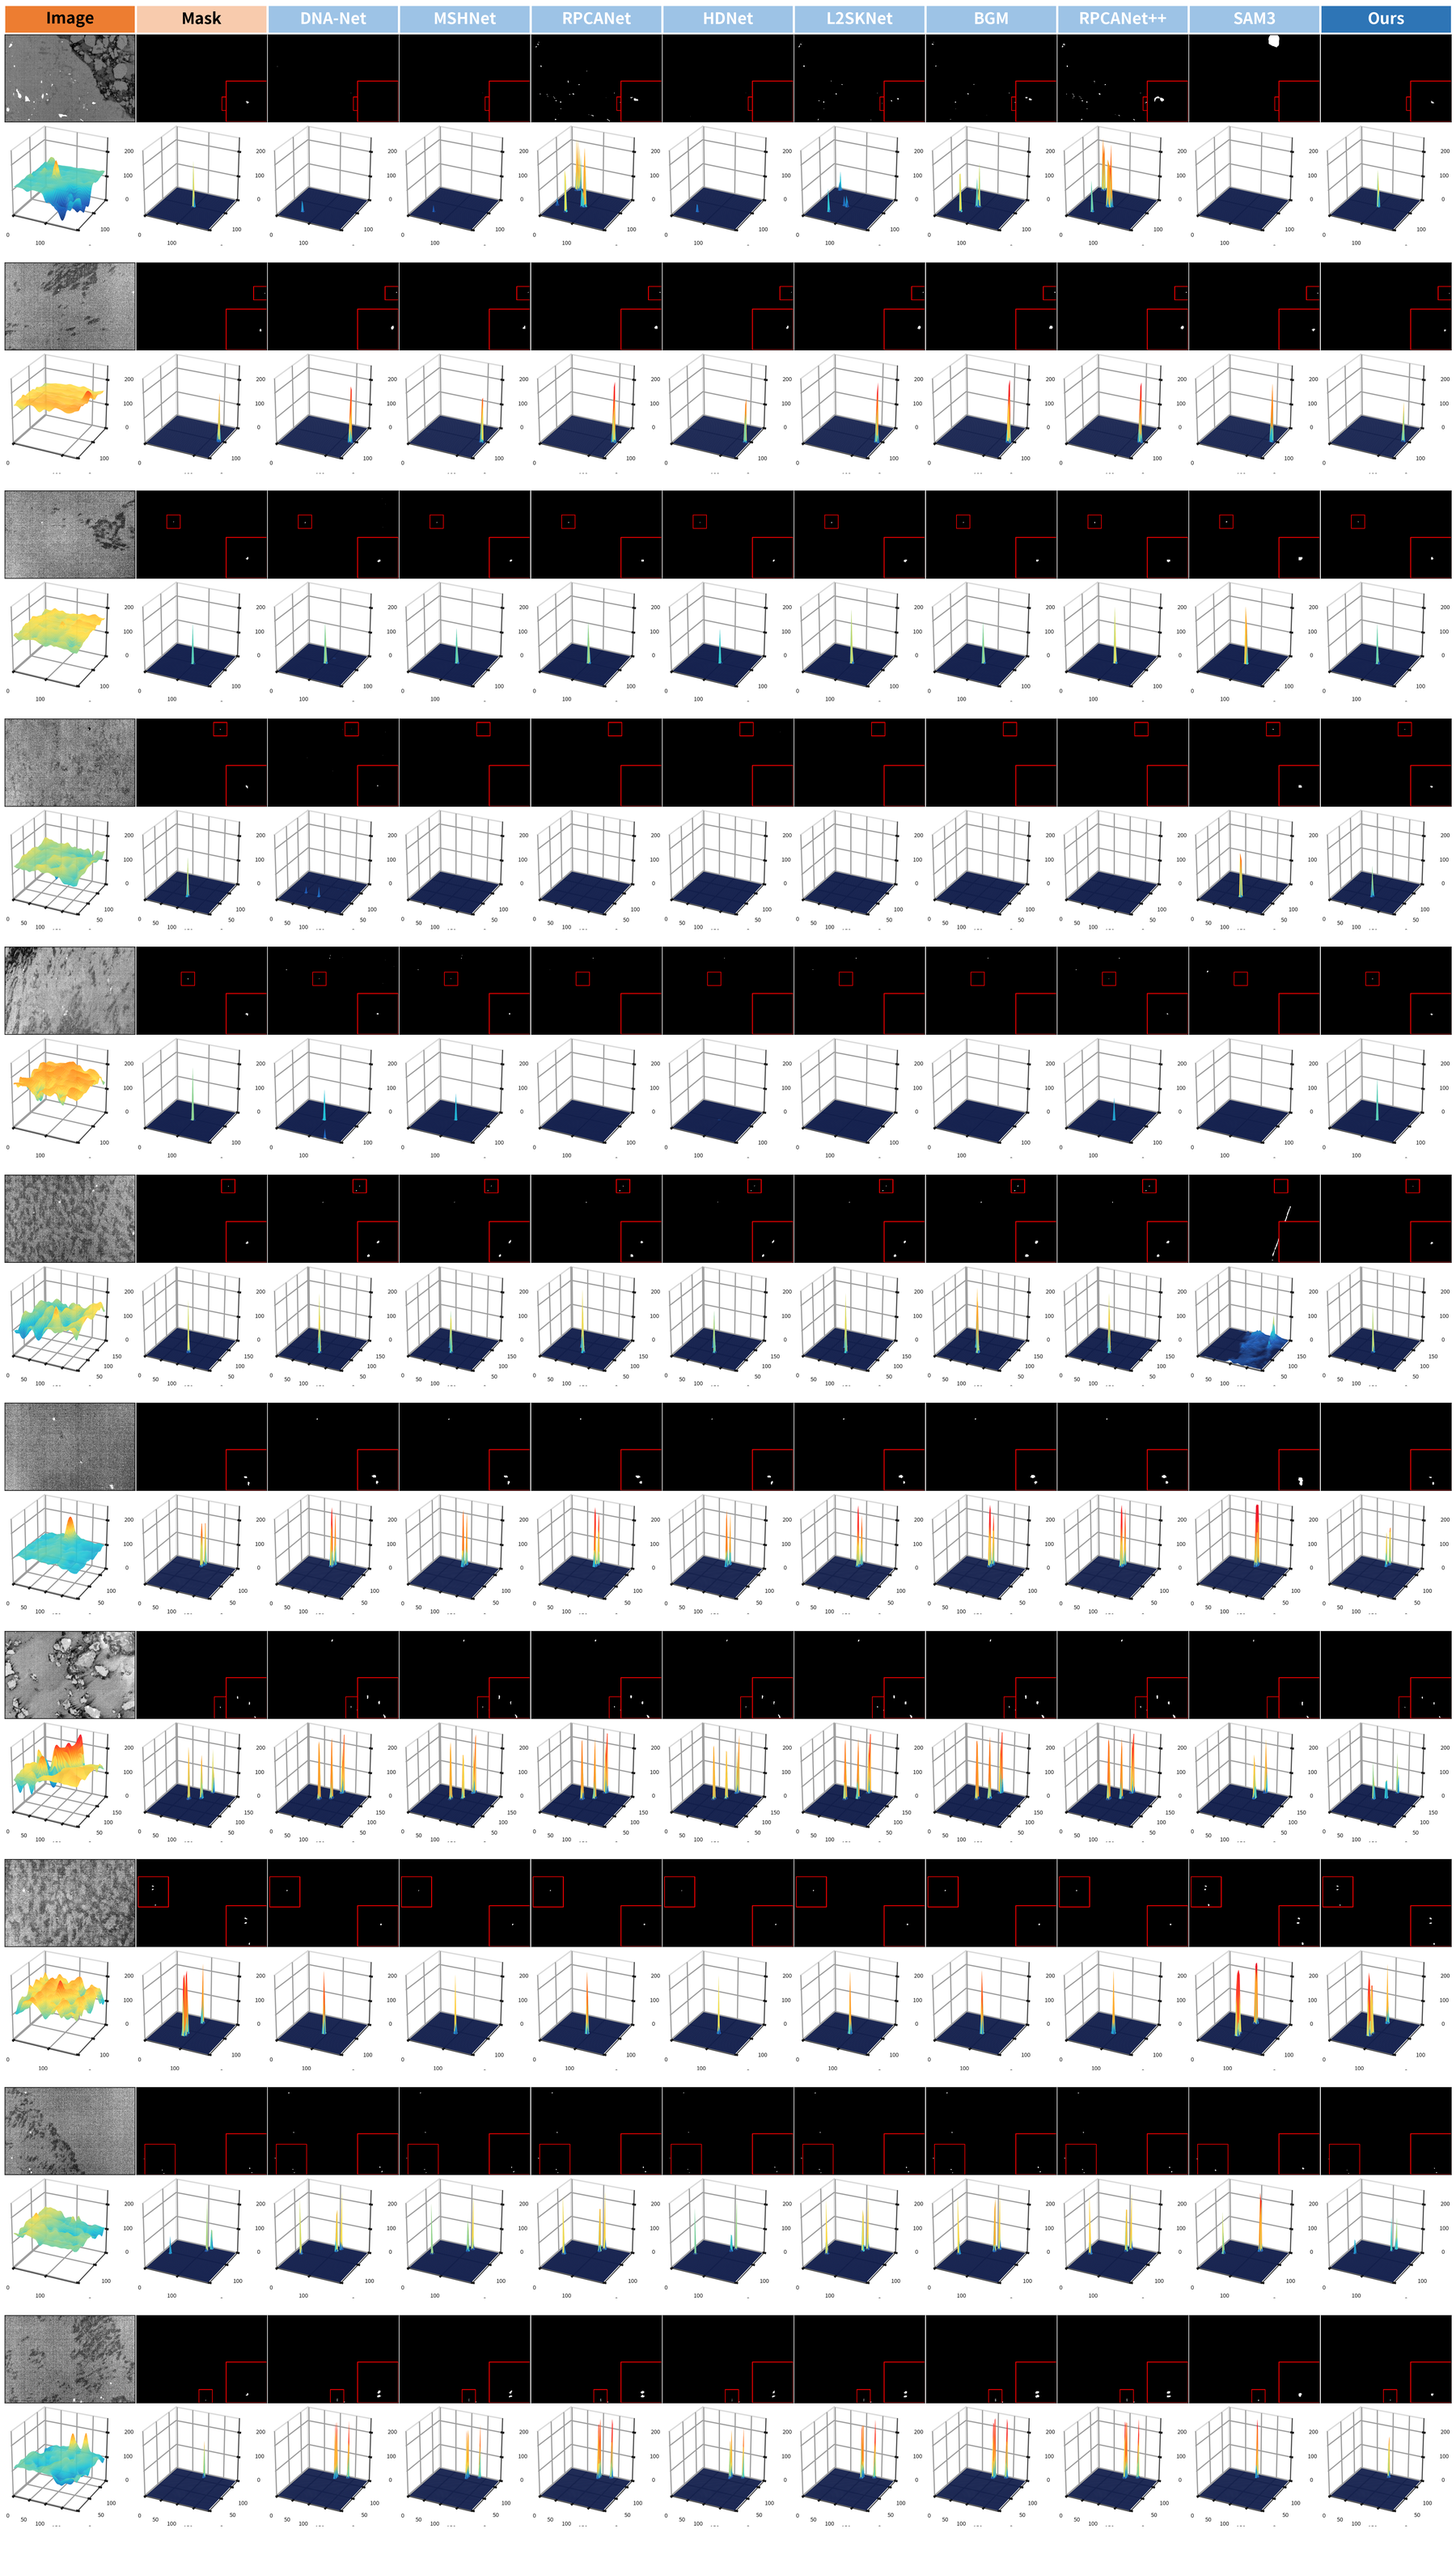
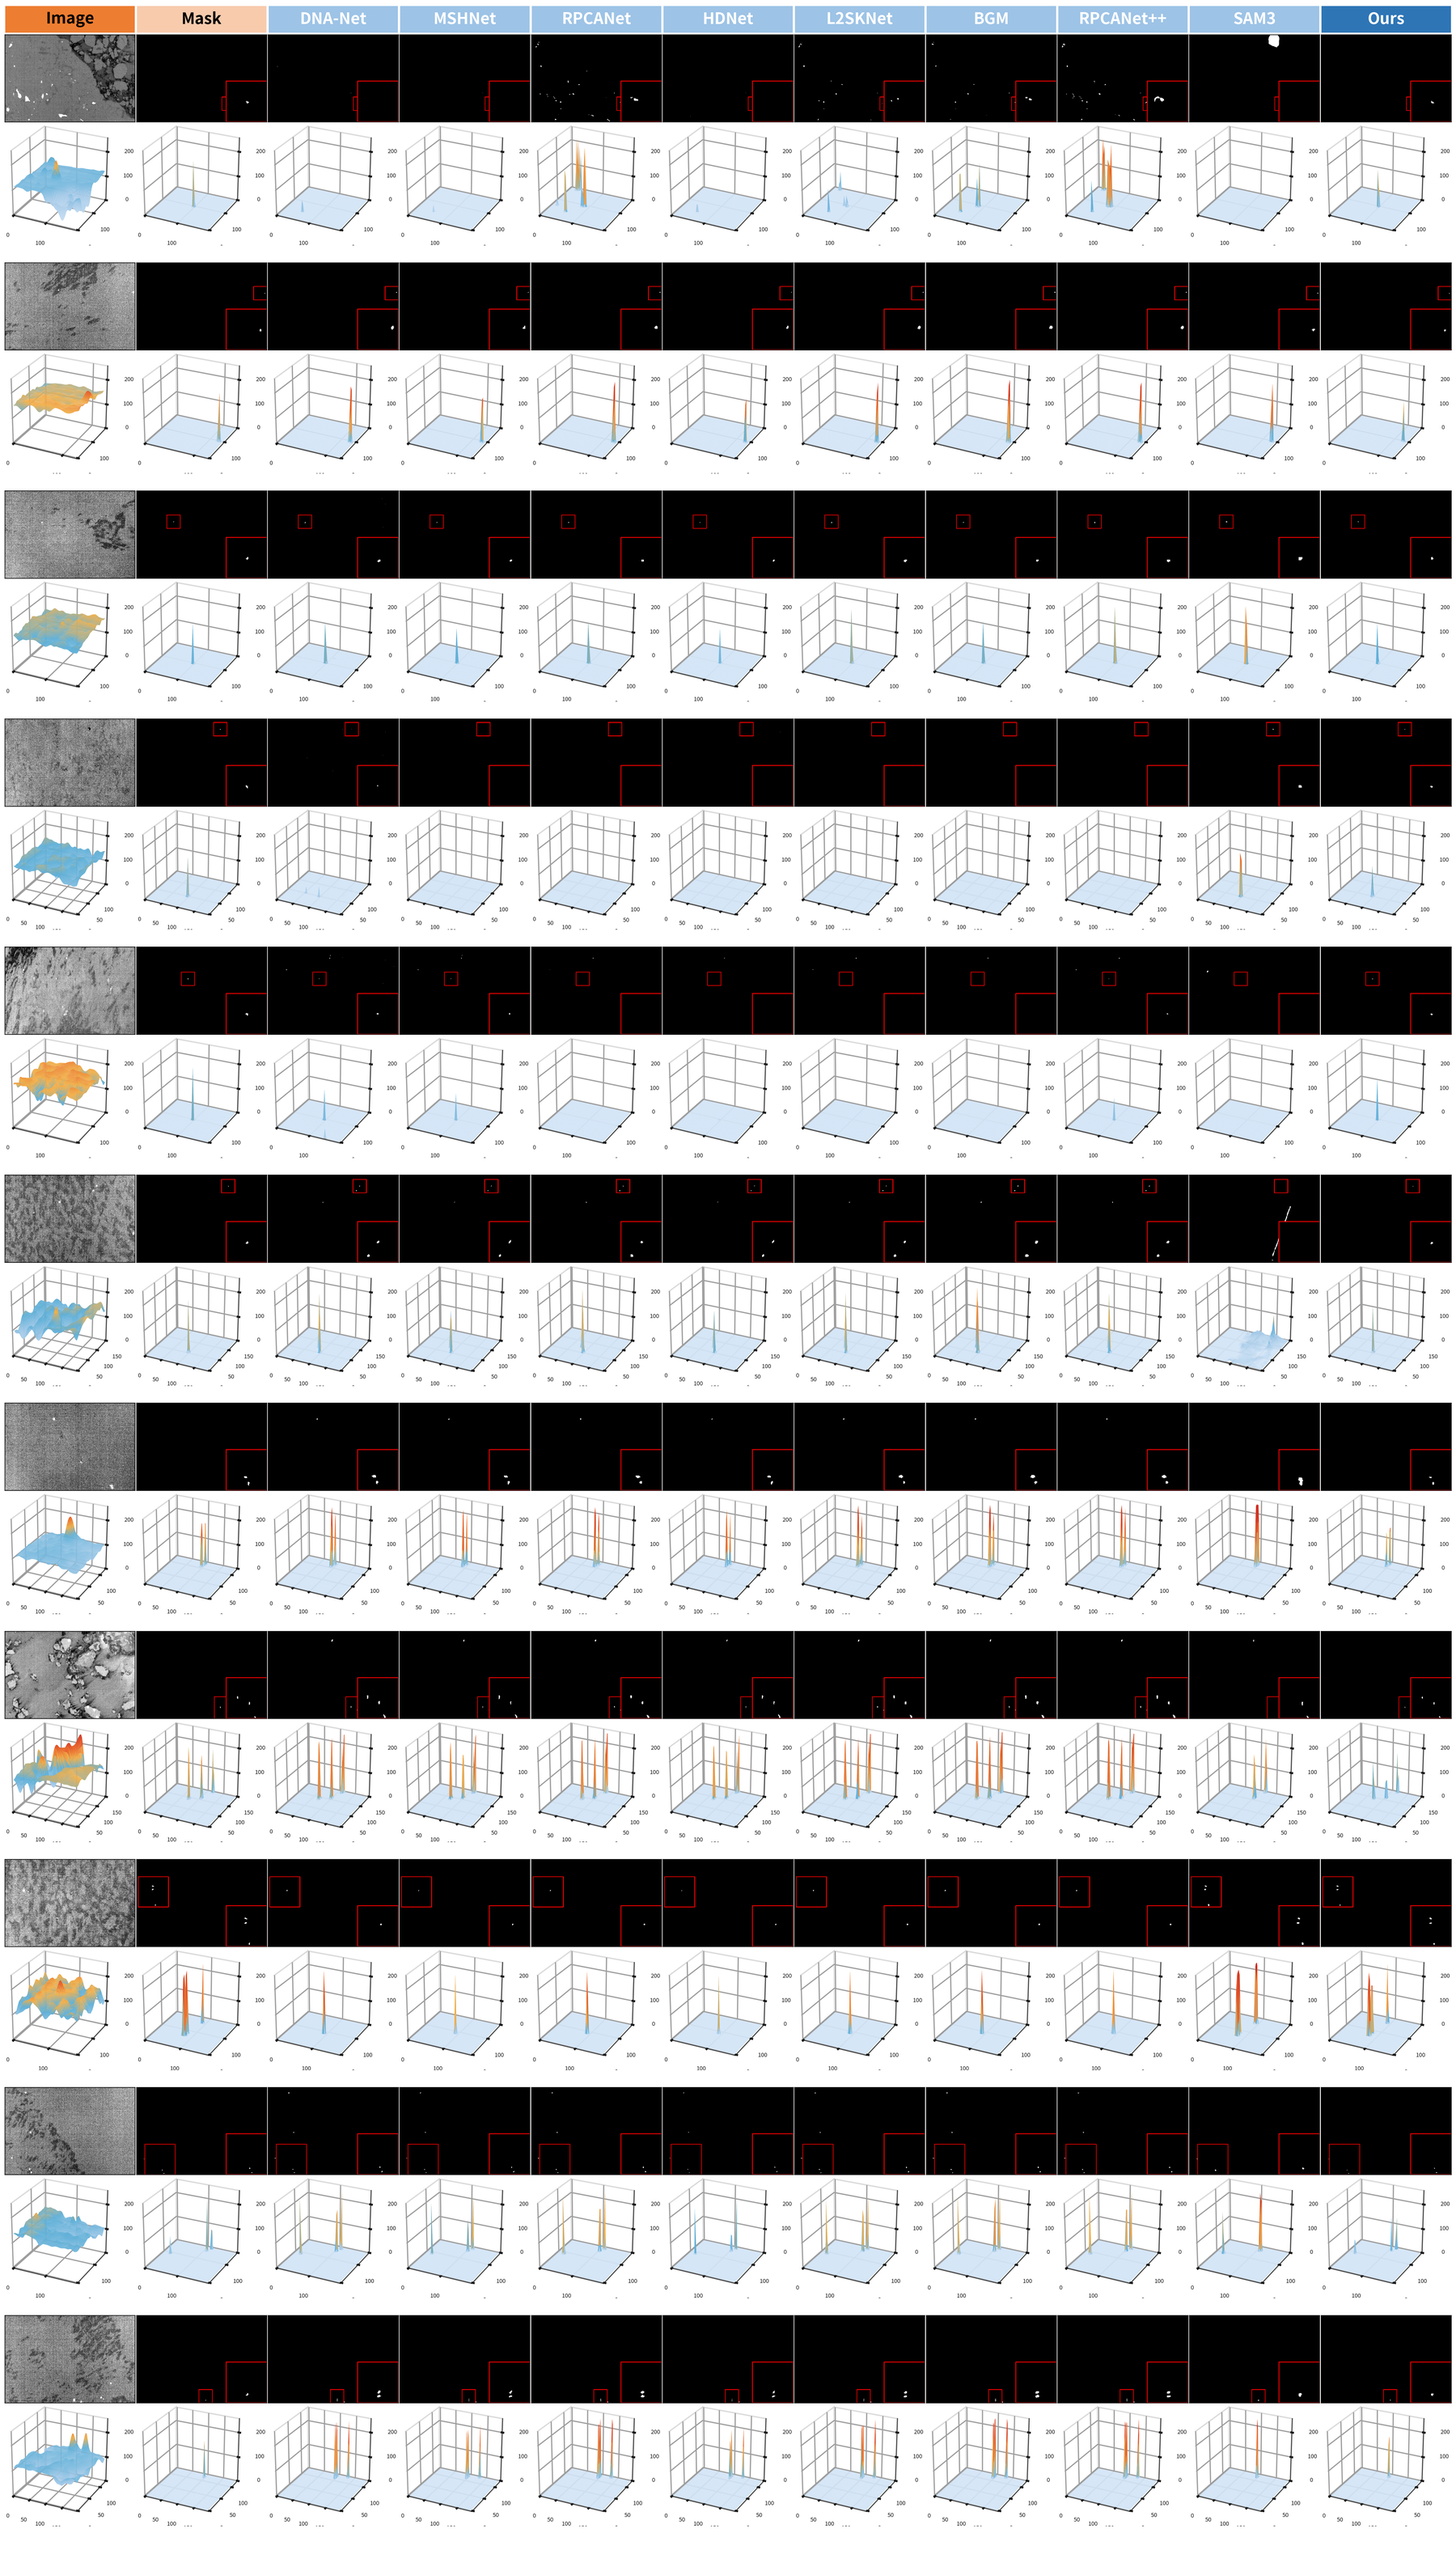
定性图 v10 修正：恢复 ALL 页、3D 换浅色、红框贴边时整体内移
1) Visio 的 ALL 页丢失：另一个会话的 87608cb 把 tools/make_visio_qualitative.ps1
   换回了不含 ALL 的旧版（tmp 里的副本）。这里恢复带 ALL 的版本，并重新生成
   v10 的 vsdx：12 页 = ALL(15x32.66 in, 253 形状) + 11 个样例页
2) 3D 配色：底色由深蓝 #0a1746 改成浅蓝 #d3e5f7，峰走 金 -> 橙 -> 红，
   gamma 0.45 -> 0.40（暖色更早出现）；地板明显变亮
3) Image 列红框：ROI 贴图像边缘时框会画出面板，现在整体平移回面板内
   （位移 <=6 px）。11 个样例实测 ROI 中心全部落在框内，9 个偏差 <0.5 px，
   2 个（2735/2120，ROI 触边）偏 6 px

diff --git a/tools/build_paper_qualitative.py b/tools/build_paper_qualitative.py
@@ -54,15 +54,14 @@ ZOOM = 10
 MARGIN = 32
 MIN_BOX = 80
 
-# 3D 响应面配色：底色深蓝（近乎黑），峰顶亮红——和压平的背景形成强对比
+# 3D 响应面配色：浅蓝底（亮、不压抑）+ 暖色峰（金 → 橙 → 红）
 SURF_CMAP = LinearSegmentedColormap.from_list('seal3d', [
-    (0.00, '#0a1746'),
-    (0.22, '#1f5fbe'),
-    (0.40, '#22c6d8'),
-    (0.60, '#ffe14d'),
-    (0.74, '#ff8a1f'),
-    (0.86, '#ff2d2d'),
-    (1.00, '#e00b2b'),
+    (0.00, '#d3e5f7'),
+    (0.32, '#a6cbe9'),
+    (0.52, '#5fb0d8'),
+    (0.66, '#f2b04a'),
+    (0.80, '#e8622e'),
+    (1.00, '#c81e1e'),
 ])
 
 
@@ -174,8 +173,20 @@ def image_panel_roi(img, roi, target=384, mode='full'):
     px, py = cx * sx, cy * sy
     bx0, bx1 = int(round(px - half)), int(round(px + half))
     by0, by1 = int(round(py - half)), int(round(py + half))
+    # 框超出面板时整体平移回面板内（ROI 贴图像边缘时会发生），避免画出被切掉一半的框
+    if bx0 < 0:
+        bx1 -= bx0
+        bx0 = 0
+    if bx1 > target - 1:
+        bx0 -= (bx1 - (target - 1))
+        bx1 = target - 1
+    if by0 < 0:
+        by1 -= by0
+        by0 = 0
+    if by1 > target - 1:
+        by0 -= (by1 - (target - 1))
+        by1 = target - 1
     bx0, by0 = max(0, bx0), max(0, by0)
-    bx1, by1 = min(target - 1, bx1), min(target - 1, by1)
     cv2.rectangle(panel, (bx0, by0), (bx1, by1), RED, 3, cv2.LINE_AA)
     return panel
 
@@ -319,7 +330,7 @@ def render_surface_png(arr, path, vmax, cmap='jet', gamma=0.45,
     return path
 
 
-def add_surface(ax, arr, vmax=255.0, cmap=SURF_CMAP, tick_font=2.2, gamma=0.45):
+def add_surface(ax, arr, vmax=255.0, cmap=SURF_CMAP, tick_font=2.2, gamma=0.40):
     """PDDiff Fig. 9 style surface with a legible wireframe and tick labels.
 
     `arr` must already be smoothed; `vmax` is normally the peak of `arr`, so the target
@@ -539,7 +550,7 @@ def main():
             peak = float(arr.max())
             vmax = 255.0 if args.z_mode == 'shared' else max(20.0, peak)
             # Image 列：彩色（PDDiff 那样），用线性映射；预测列用 PowerNorm 提亮峰
-            gamma = None if is_img else 0.45
+            gamma = None if is_img else 0.40
             col = safe_name(columns[j][0])
             p3d = cache_root / f'{stem}_{j:02d}_{col}_{int(round(vmax))}_{"lin" if is_img else "pow"}.png'
             if not p3d.exists():
